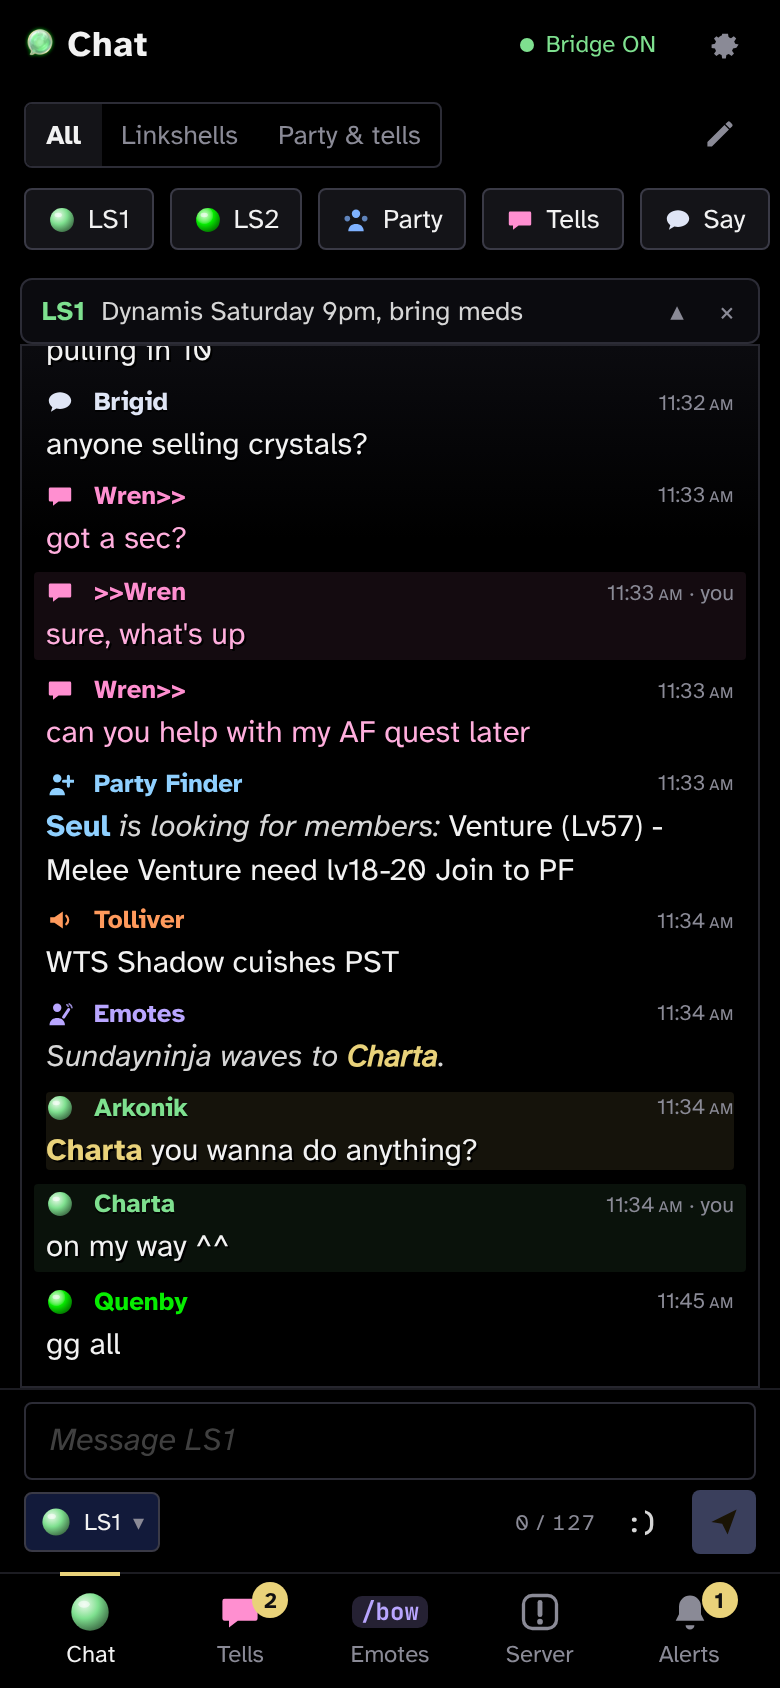
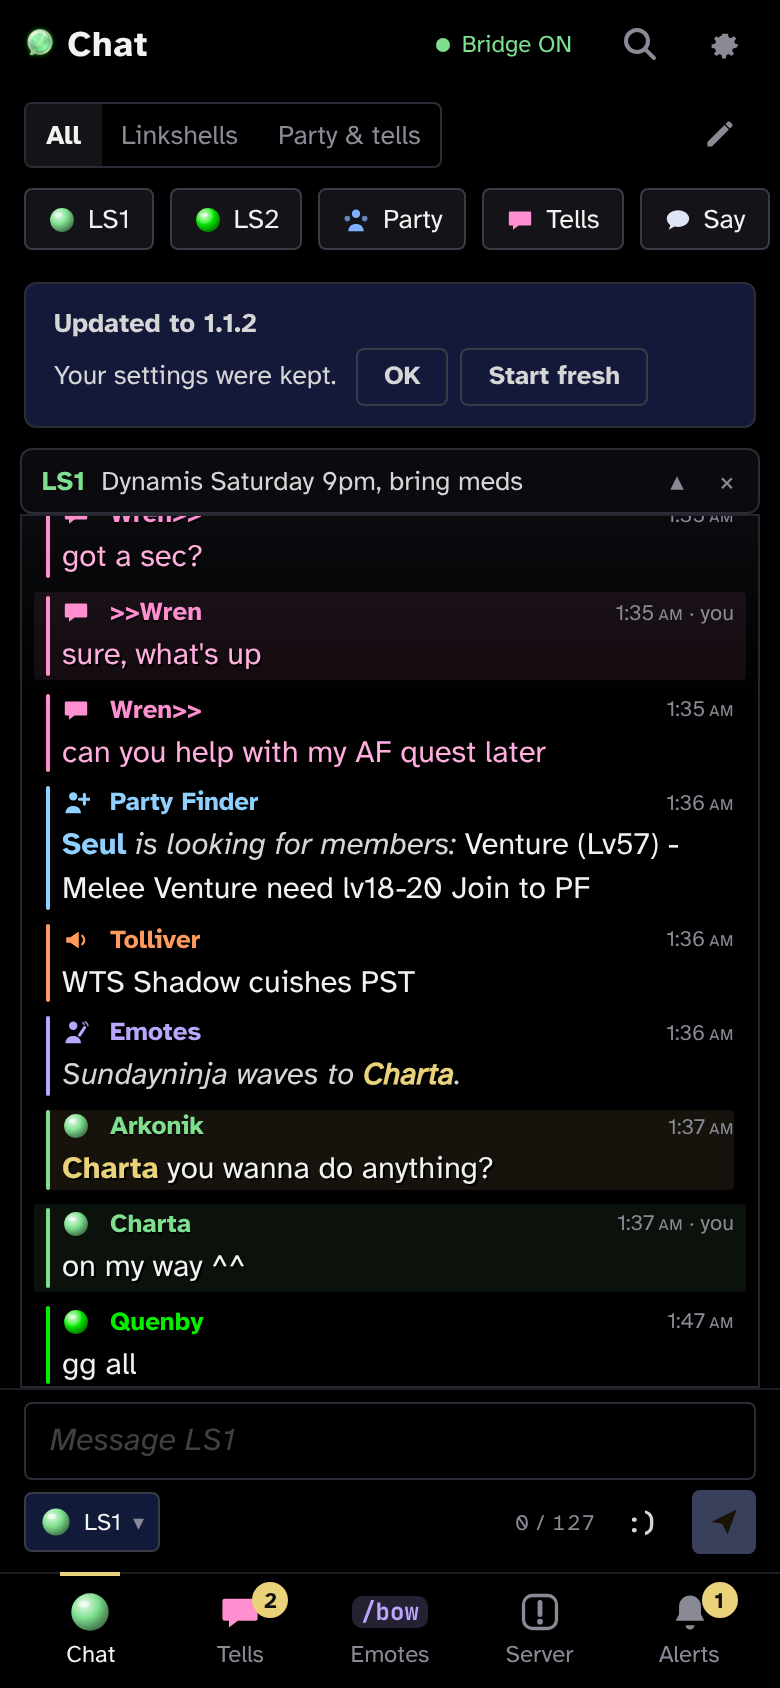
Night gets Classic's channel bar; skin order Classic, Night, Game, Yunas
Claude-Session: https://claude.ai/code/session_01EQHJw41hfgAS7SckUKE71o

diff --git a/bridge/index.html b/bridge/index.html
@@ -463,7 +463,7 @@ body.skin-classic .pill-on{border-radius:4px}
 body.skin-onyx{--bg:#000;--pane:#000;--raise:#0b0b0f;--chip:#141418;--line:#1c1c22;--edge:#2c2c36;--edge2:#3a3a46;
   --text:#f2f2f2;--soft:#d6d6d6;--mute:#8a8a96;--gold:#e9d27a;--ink:#111;--serif:var(--sans)}
 body.skin-onyx .pane{border-radius:0;border-color:#26262e;box-shadow:none}
-body.skin-onyx .rail{display:none}
+body.skin-onyx .rail{width:2px}   /* same channel bar as Classic */
 body.skin-onyx .run,body.skin-onyx .cl{gap:6px}
 body.skin-onyx .pane .inner{gap:7px}
 body.skin-onyx.compact .pane .inner{gap:2px}
@@ -2615,7 +2615,7 @@ document.addEventListener("click", function (e) {
 // ------------------------------------------------------------------------------------------
 function tog(on, key) { return '<button class="tog' + (on ? " on" : "") + '" data-set="' + key + '"></button>'; }
 function skinSegs() {
-  var opts = [["classic", "Classic"], ["game", "Game"], ["onyx", "Night"], ["yuna", "Yunas"]].concat(S.skin === "midnight" ? [["midnight", "Midnight"]] : []);
+  var opts = [["classic", "Classic"], ["onyx", "Night"], ["game", "Game"], ["yuna", "Yunas"]].concat(S.skin === "midnight" ? [["midnight", "Midnight"]] : []);
   return '<div class="segs">' + opts.map(function (o) {
     return '<button data-seg="skin" data-val="' + o[0] + '" class="' + (o[0] === S.skin ? "on " : "") + (lookEdited(o[0]) ? "lookdot" : "") + '">' + o[1] + "</button>";
   }).join("") + "</div>";

diff --git a/tools/screenshots.js b/tools/screenshots.js
@@ -24,7 +24,7 @@ async function tab(p, t, cs) { await p.click('#tabbar [data-tab="' + t + '"]' + 
 (async () => {
   const b = await chromium.launch();
   const base = { watch: "Charta", quickFilters: true, bazaar: true };
-  for (const skin of ["classic", "game", "onyx", "yuna"]) {
+  for (const skin of ["classic", "onyx", "game", "yuna"]) {
     const p = await page(b, Object.assign({}, base, { skin }));
     await shot(p, "skin-" + skin);
     if (skin === "classic") {   // the feature shots lead with Classic

diff --git a/README.md b/README.md
@@ -50,12 +50,12 @@ Tested on a Steam Deck and on Windows 11, with an iPhone.
 - An Alerts tab: a card per VNM or HVNM with a 10 minute countdown from Populox's first message, then POP!, plus your mentions, Auction House sales, server notices and (if you turn it on) bazaar visits. VNM cards, notices and bazaar visits clear with ×.
 - A `:)` button with your own list of text emoticons. Set them in Settings, or keep the eight defaults.
 - The keyboard doesn't capitalize or autocorrect, so game words like Jeuno or Windurst come through as you typed them. Both can be turned on in Settings.
-- Four skins (Classic, Game, Night and Yunas, an unofficial look inspired by YunaUI), two fonts, a compact layout, text size, 12 or 24-hour time and per-channel colors. Settings are saved on the bridge and can be exported (without your mention names).
+- Four skins (Classic, Night, Game and Yunas, an unofficial look inspired by YunaUI), two fonts, a compact layout, text size, 12 or 24-hour time and per-channel colors. Settings are saved on the bridge and can be exported (without your mention names).
 
 <p>
   <img src="docs/screenshots/skin-classic.png" width="180" alt="Classic skin">
-  <img src="docs/screenshots/skin-game.png" width="180" alt="Game skin">
   <img src="docs/screenshots/skin-onyx.png" width="180" alt="Night skin">
+  <img src="docs/screenshots/skin-game.png" width="180" alt="Game skin">
   <img src="docs/screenshots/skin-yuna.png" width="180" alt="Yunas skin">
 </p>
 

diff --git a/CHANGELOG.md b/CHANGELOG.md
@@ -37,6 +37,7 @@ Phone-side changes and fixes. It reads nothing new from the game and sends the s
 - Zone changes are in bold, so they no longer look like a time line.
 - When a new line joins a run of lines from the same person, only that line fades in. Before, the whole run flashed again.
 - Onyx is now called Night in the skin list. It's the same plain black look, and your saved choice carries over.
+- Night now has Classic's colored channel bar on the left of each line. Skin order in Settings: Classic, Night, Game, Yunas.
 - Auto-translate braces now look like the game on every skin: green open brace, red close brace, and the words keep the line's color. Items and phrases match.
 - Midnight is no longer in the skin list. Nothing was removed: if you already have it selected it stays, and it shows in the list for you.
 - Text size has two more steps, XS and XL (Settings > Appearance). S, M and L are unchanged, so your current size stays as it is.
